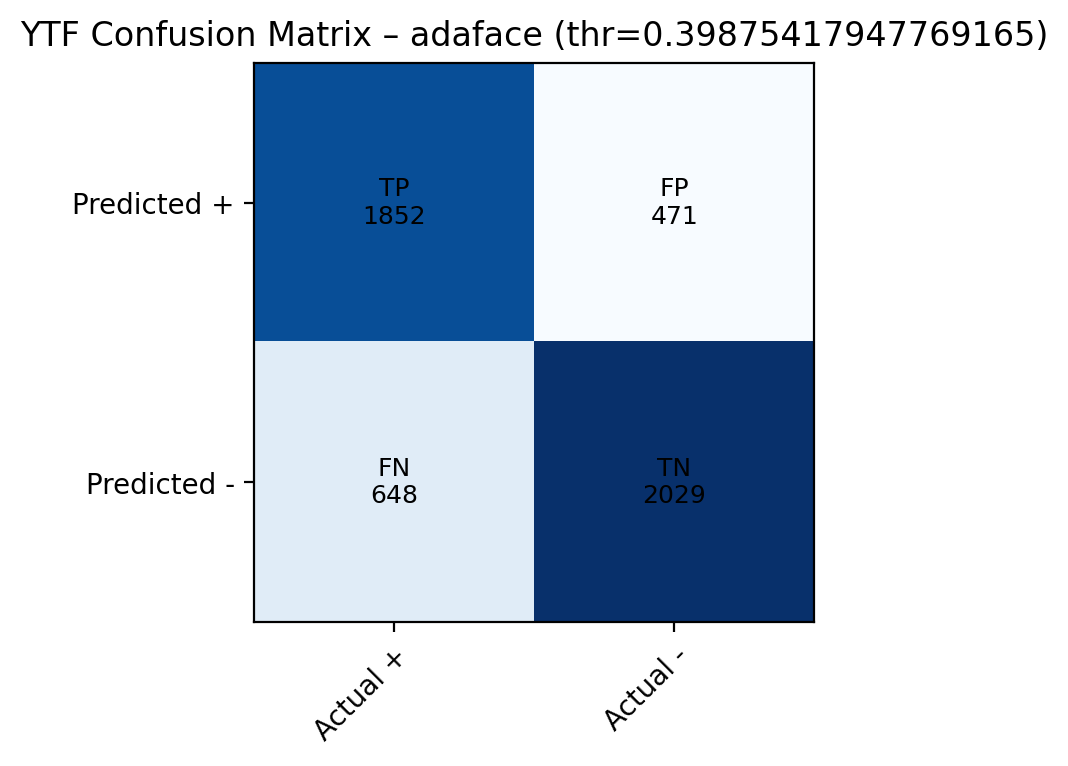
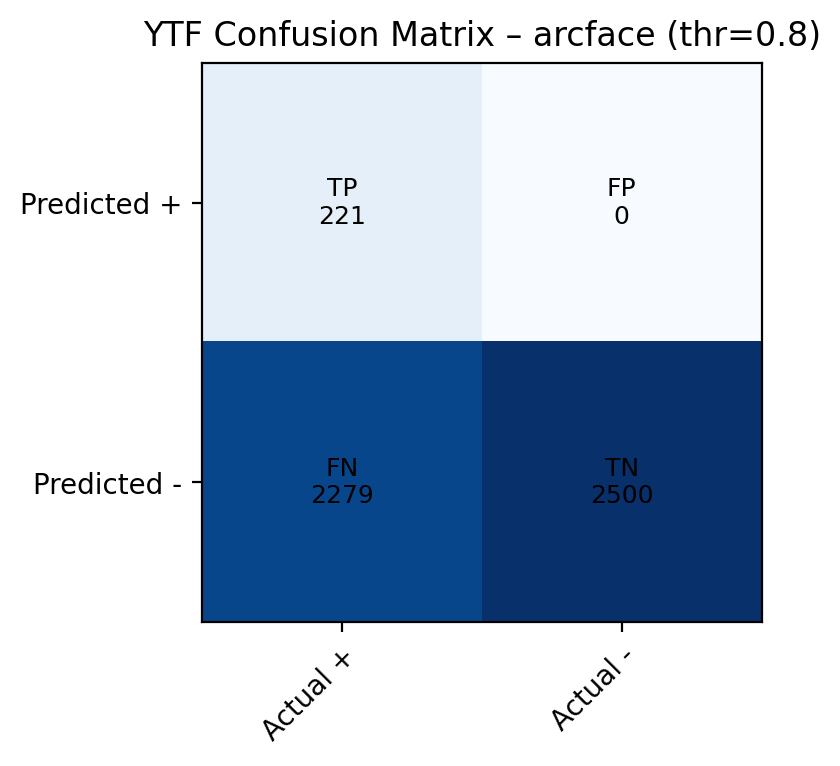
update

diff --git a/src/benchmark_parameters/validation_accuracy/video/logic_confusion_ytf_pairs.py b/src/benchmark_parameters/validation_accuracy/video/logic_confusion_ytf_pairs.py
@@ -12,7 +12,7 @@ import matplotlib.pyplot as plt
 
 sys.path.append(os.path.abspath(os.path.join(os.path.dirname(__file__), "../../..")))
 
-FIXED_THRESHOLD = 0.39875417947769165
+FIXED_THRESHOLD = 0.8
 
 
 def load_all_scores_labels(exports_dir: Path, model: str, stamp: str):
